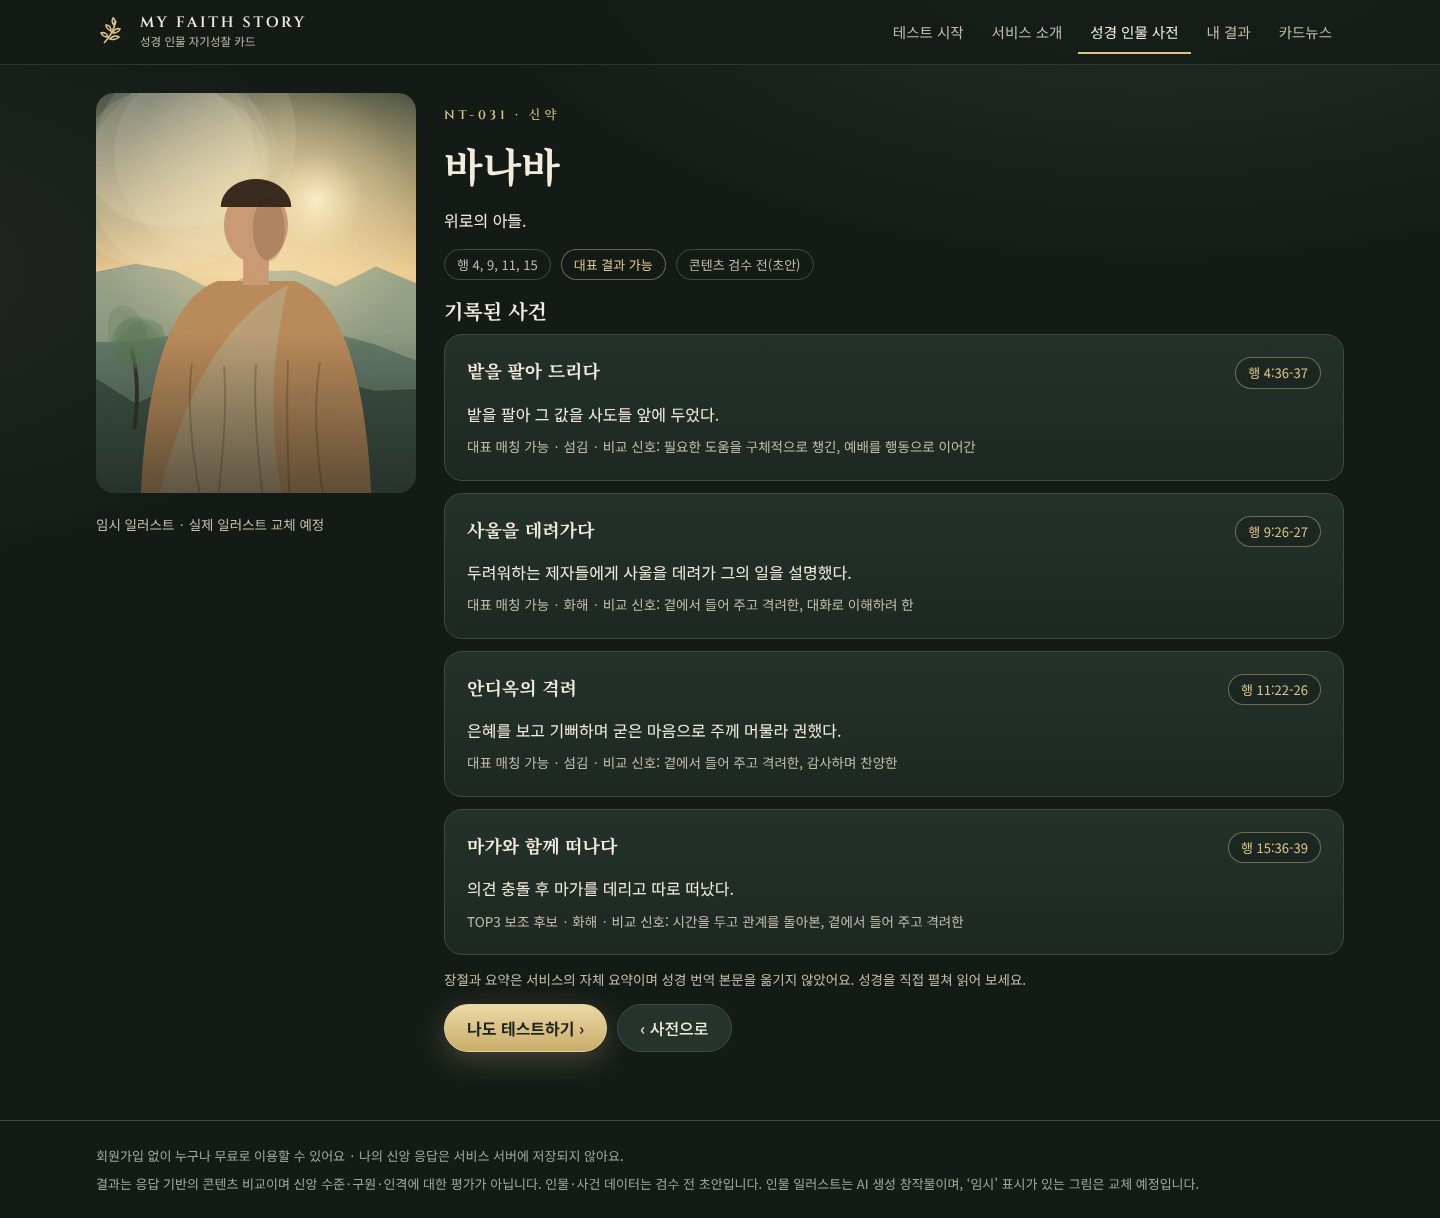
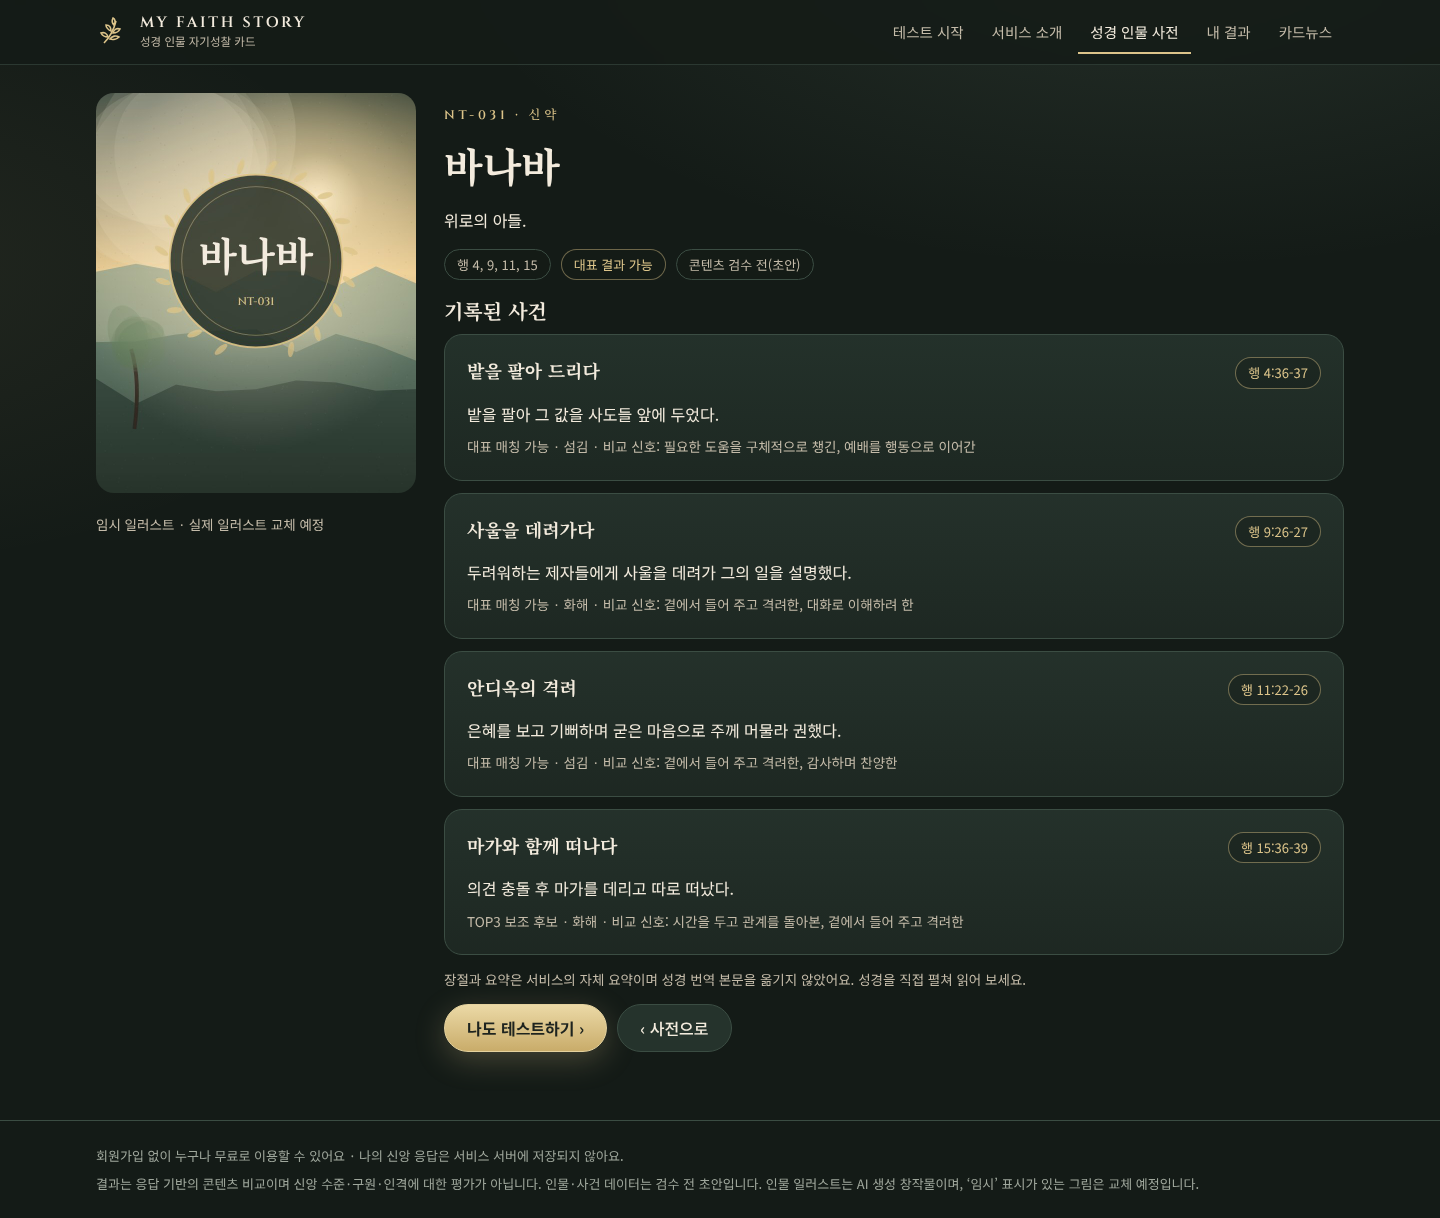
Placeholder portraits: landscape + name medallion instead of faceless figure
Claude-Session: https://claude.ai/code/session_014c9vFgBS4BdK9e3m5zEueQ

Changed region(s): [[0.0938, 0.1248, 0.2812, 0.4056]]

diff --git a/dist/index.html b/dist/index.html
@@ -1229,6 +1229,37 @@ window.MFS_PORTRAITS=["nt-peter","ot-abraham","ot-asaph","ot-daniel","ot-david",
     ctx.fillStyle = 'rgba(60,35,20,.18)'; ctx.beginPath(); ctx.ellipse(cx + w * 0.04, top + h * 0.14, w * 0.05, h * 0.08, 0, 0, Math.PI * 2); ctx.fill();
     paper(ctx, w, h, r);
   }
+  // Placeholder art until a generated portrait exists: watercolor landscape + name medallion
+  // (no faceless figure — it read as unfinished).
+  function emblem(ctx, w, h, charId) {
+    const ch = D.CHAR_BY_ID[charId]; if (!ch) return;
+    const cx = w / 2, cy = h * 0.42, R = Math.min(w, h) * 0.27;
+    const g = ctx.createRadialGradient(cx, cy, 0, cx, cy, R * 2.2);
+    g.addColorStop(0, 'rgba(255,240,205,.55)'); g.addColorStop(1, 'rgba(255,240,205,0)');
+    ctx.fillStyle = g; ctx.fillRect(0, 0, w, h);
+    ctx.fillStyle = 'rgba(20,32,26,.78)'; ctx.beginPath(); ctx.arc(cx, cy, R, 0, Math.PI * 2); ctx.fill();
+    ctx.strokeStyle = 'rgba(220,196,138,.95)'; ctx.lineWidth = Math.max(2, w * 0.006); ctx.stroke();
+    ctx.strokeStyle = 'rgba(220,196,138,.45)'; ctx.lineWidth = Math.max(1, w * 0.003); ctx.beginPath(); ctx.arc(cx, cy, R * 0.86, 0, Math.PI * 2); ctx.stroke();
+    // laurel ticks around the ring
+    ctx.fillStyle = 'rgba(220,196,138,.8)';
+    for (let i = 0; i < 18; i++) { const a = Math.PI * 0.62 + i * (Math.PI * 1.76 / 17); const x = cx + Math.cos(a) * R * 1.1, y = cy + Math.sin(a) * R * 1.1; ctx.save(); ctx.translate(x, y); ctx.rotate(a + Math.PI / 2); ctx.beginPath(); ctx.ellipse(0, 0, R * 0.035, R * 0.09, 0.5, 0, Math.PI * 2); ctx.fill(); ctx.restore(); }
+    ctx.fillStyle = '#F3EBDD'; ctx.textAlign = 'center'; ctx.textBaseline = 'middle';
+    const name = ch.displayName.replace(/\s+/g, '');
+    if (name.length <= 4) {
+      const size = R * [0, 0.95, 0.62, 0.46, 0.36][name.length];
+      ctx.font = `700 ${Math.round(size)}px ${FONT.serif}`; ctx.fillText(name, cx, cy - R * 0.06);
+    } else { // long names: open-book mark instead of a truncated name
+      const bw = R * 0.5, by = cy - R * 0.08;
+      ctx.strokeStyle = '#F3EBDD'; ctx.lineWidth = Math.max(2, R * 0.035); ctx.lineJoin = 'round'; ctx.beginPath();
+      ctx.moveTo(cx - bw, by - bw * 0.25); ctx.quadraticCurveTo(cx - bw * 0.5, by - bw * 0.5, cx, by - bw * 0.15); ctx.quadraticCurveTo(cx + bw * 0.5, by - bw * 0.5, cx + bw, by - bw * 0.25);
+      ctx.lineTo(cx + bw, by + bw * 0.5); ctx.quadraticCurveTo(cx + bw * 0.5, by + bw * 0.25, cx, by + bw * 0.6); ctx.quadraticCurveTo(cx - bw * 0.5, by + bw * 0.25, cx - bw, by + bw * 0.5); ctx.closePath();
+      ctx.moveTo(cx, by - bw * 0.15); ctx.lineTo(cx, by + bw * 0.6); ctx.stroke();
+    }
+    ctx.fillStyle = 'rgba(220,196,138,.95)'; ctx.font = `600 ${Math.round(R * 0.13)}px ${FONT.display}`;
+    ctx.fillText(ch.cardCode, cx, cy + R * 0.48);
+    ctx.textBaseline = 'alphabetic';
+  }
+
   // Real generated portraits (served as files next to the page); others fall back to the procedural placeholder.
   const REAL = new Set(root.MFS_PORTRAITS || []);
   const PORTRAIT_BASE = 'assets/characters/';
@@ -1254,7 +1285,7 @@ window.MFS_PORTRAITS=["nt-peter","ot-abraham","ot-asaph","ot-daniel","ot-david",
       const im = rec.im, sc = Math.max(w / im.naturalWidth, h / im.naturalHeight);
       const dw = im.naturalWidth * sc, dh = im.naturalHeight * sc;
       ctx.drawImage(im, (w - dw) / 2, (h - dh) * 0.4, dw, dh);
-    } else { scene(ctx, w, h, charId); figure(ctx, w, h, charId); }
+    } else { scene(ctx, w, h, charId); emblem(ctx, w, h, charId); }
     const v = ctx.createLinearGradient(0, h * 0.6, 0, h); v.addColorStop(0, 'rgba(20,27,23,0)'); v.addColorStop(1, 'rgba(20,27,23,.55)');
     ctx.fillStyle = v; ctx.fillRect(0, 0, w, h);
     portraitCache.set(key, cv);
@@ -1329,8 +1360,8 @@ window.MFS_PORTRAITS=["nt-peter","ot-abraham","ot-asaph","ot-daniel","ot-david",
     if (card.rarity === 'SR' || card.rarity === 'SSR') sparkles(ctx, px, py, pw, ph * 0.6, ch.id, card.rarity === 'SSR' ? 22 : 12);
     ctx.restore();
     ctx.strokeStyle = frameGrad(ctx, px, py, pw, ph, card.rarity); ctx.lineWidth = 6; rr(ctx, px, py, pw, ph, 24); ctx.stroke();
-    if (!REAL.has(ch.id)) { ctx.fillStyle = 'rgba(14,20,17,.6)'; rr(ctx, px + 16, py + 16, 150, 40, 20); ctx.fill();
-      ctx.fillStyle = C.muted; ctx.font = `500 20px ${FONT.sans}`; ctx.textAlign = 'center'; ctx.fillText('임시 일러스트', px + 91, py + 43); }
+    if (!REAL.has(ch.id)) { ctx.fillStyle = 'rgba(14,20,17,.6)'; rr(ctx, px + 16, py + 16, 172, 40, 20); ctx.fill();
+      ctx.fillStyle = C.muted; ctx.font = `500 20px ${FONT.sans}`; ctx.textAlign = 'center'; ctx.fillText('일러스트 준비 중', px + 102, py + 43); }
     // name plate
     let y = py + ph - 40;
     rr(ctx, px + 60, y, pw - 120, 112, 56); ctx.fillStyle = f.plate; ctx.fill();

diff --git a/dist/standalone.html b/dist/standalone.html
@@ -1231,6 +1231,37 @@ window.MFS_PORTRAITS=["nt-peter","ot-abraham","ot-asaph","ot-daniel","ot-david",
     ctx.fillStyle = 'rgba(60,35,20,.18)'; ctx.beginPath(); ctx.ellipse(cx + w * 0.04, top + h * 0.14, w * 0.05, h * 0.08, 0, 0, Math.PI * 2); ctx.fill();
     paper(ctx, w, h, r);
   }
+  // Placeholder art until a generated portrait exists: watercolor landscape + name medallion
+  // (no faceless figure — it read as unfinished).
+  function emblem(ctx, w, h, charId) {
+    const ch = D.CHAR_BY_ID[charId]; if (!ch) return;
+    const cx = w / 2, cy = h * 0.42, R = Math.min(w, h) * 0.27;
+    const g = ctx.createRadialGradient(cx, cy, 0, cx, cy, R * 2.2);
+    g.addColorStop(0, 'rgba(255,240,205,.55)'); g.addColorStop(1, 'rgba(255,240,205,0)');
+    ctx.fillStyle = g; ctx.fillRect(0, 0, w, h);
+    ctx.fillStyle = 'rgba(20,32,26,.78)'; ctx.beginPath(); ctx.arc(cx, cy, R, 0, Math.PI * 2); ctx.fill();
+    ctx.strokeStyle = 'rgba(220,196,138,.95)'; ctx.lineWidth = Math.max(2, w * 0.006); ctx.stroke();
+    ctx.strokeStyle = 'rgba(220,196,138,.45)'; ctx.lineWidth = Math.max(1, w * 0.003); ctx.beginPath(); ctx.arc(cx, cy, R * 0.86, 0, Math.PI * 2); ctx.stroke();
+    // laurel ticks around the ring
+    ctx.fillStyle = 'rgba(220,196,138,.8)';
+    for (let i = 0; i < 18; i++) { const a = Math.PI * 0.62 + i * (Math.PI * 1.76 / 17); const x = cx + Math.cos(a) * R * 1.1, y = cy + Math.sin(a) * R * 1.1; ctx.save(); ctx.translate(x, y); ctx.rotate(a + Math.PI / 2); ctx.beginPath(); ctx.ellipse(0, 0, R * 0.035, R * 0.09, 0.5, 0, Math.PI * 2); ctx.fill(); ctx.restore(); }
+    ctx.fillStyle = '#F3EBDD'; ctx.textAlign = 'center'; ctx.textBaseline = 'middle';
+    const name = ch.displayName.replace(/\s+/g, '');
+    if (name.length <= 4) {
+      const size = R * [0, 0.95, 0.62, 0.46, 0.36][name.length];
+      ctx.font = `700 ${Math.round(size)}px ${FONT.serif}`; ctx.fillText(name, cx, cy - R * 0.06);
+    } else { // long names: open-book mark instead of a truncated name
+      const bw = R * 0.5, by = cy - R * 0.08;
+      ctx.strokeStyle = '#F3EBDD'; ctx.lineWidth = Math.max(2, R * 0.035); ctx.lineJoin = 'round'; ctx.beginPath();
+      ctx.moveTo(cx - bw, by - bw * 0.25); ctx.quadraticCurveTo(cx - bw * 0.5, by - bw * 0.5, cx, by - bw * 0.15); ctx.quadraticCurveTo(cx + bw * 0.5, by - bw * 0.5, cx + bw, by - bw * 0.25);
+      ctx.lineTo(cx + bw, by + bw * 0.5); ctx.quadraticCurveTo(cx + bw * 0.5, by + bw * 0.25, cx, by + bw * 0.6); ctx.quadraticCurveTo(cx - bw * 0.5, by + bw * 0.25, cx - bw, by + bw * 0.5); ctx.closePath();
+      ctx.moveTo(cx, by - bw * 0.15); ctx.lineTo(cx, by + bw * 0.6); ctx.stroke();
+    }
+    ctx.fillStyle = 'rgba(220,196,138,.95)'; ctx.font = `600 ${Math.round(R * 0.13)}px ${FONT.display}`;
+    ctx.fillText(ch.cardCode, cx, cy + R * 0.48);
+    ctx.textBaseline = 'alphabetic';
+  }
+
   // Real generated portraits (served as files next to the page); others fall back to the procedural placeholder.
   const REAL = new Set(root.MFS_PORTRAITS || []);
   const PORTRAIT_BASE = 'assets/characters/';
@@ -1256,7 +1287,7 @@ window.MFS_PORTRAITS=["nt-peter","ot-abraham","ot-asaph","ot-daniel","ot-david",
       const im = rec.im, sc = Math.max(w / im.naturalWidth, h / im.naturalHeight);
       const dw = im.naturalWidth * sc, dh = im.naturalHeight * sc;
       ctx.drawImage(im, (w - dw) / 2, (h - dh) * 0.4, dw, dh);
-    } else { scene(ctx, w, h, charId); figure(ctx, w, h, charId); }
+    } else { scene(ctx, w, h, charId); emblem(ctx, w, h, charId); }
     const v = ctx.createLinearGradient(0, h * 0.6, 0, h); v.addColorStop(0, 'rgba(20,27,23,0)'); v.addColorStop(1, 'rgba(20,27,23,.55)');
     ctx.fillStyle = v; ctx.fillRect(0, 0, w, h);
     portraitCache.set(key, cv);
@@ -1331,8 +1362,8 @@ window.MFS_PORTRAITS=["nt-peter","ot-abraham","ot-asaph","ot-daniel","ot-david",
     if (card.rarity === 'SR' || card.rarity === 'SSR') sparkles(ctx, px, py, pw, ph * 0.6, ch.id, card.rarity === 'SSR' ? 22 : 12);
     ctx.restore();
     ctx.strokeStyle = frameGrad(ctx, px, py, pw, ph, card.rarity); ctx.lineWidth = 6; rr(ctx, px, py, pw, ph, 24); ctx.stroke();
-    if (!REAL.has(ch.id)) { ctx.fillStyle = 'rgba(14,20,17,.6)'; rr(ctx, px + 16, py + 16, 150, 40, 20); ctx.fill();
-      ctx.fillStyle = C.muted; ctx.font = `500 20px ${FONT.sans}`; ctx.textAlign = 'center'; ctx.fillText('임시 일러스트', px + 91, py + 43); }
+    if (!REAL.has(ch.id)) { ctx.fillStyle = 'rgba(14,20,17,.6)'; rr(ctx, px + 16, py + 16, 172, 40, 20); ctx.fill();
+      ctx.fillStyle = C.muted; ctx.font = `500 20px ${FONT.sans}`; ctx.textAlign = 'center'; ctx.fillText('일러스트 준비 중', px + 102, py + 43); }
     // name plate
     let y = py + ph - 40;
     rr(ctx, px + 60, y, pw - 120, 112, 56); ctx.fillStyle = f.plate; ctx.fill();

diff --git a/src/render.js b/src/render.js
@@ -126,6 +126,37 @@
     ctx.fillStyle = 'rgba(60,35,20,.18)'; ctx.beginPath(); ctx.ellipse(cx + w * 0.04, top + h * 0.14, w * 0.05, h * 0.08, 0, 0, Math.PI * 2); ctx.fill();
     paper(ctx, w, h, r);
   }
+  // Placeholder art until a generated portrait exists: watercolor landscape + name medallion
+  // (no faceless figure — it read as unfinished).
+  function emblem(ctx, w, h, charId) {
+    const ch = D.CHAR_BY_ID[charId]; if (!ch) return;
+    const cx = w / 2, cy = h * 0.42, R = Math.min(w, h) * 0.27;
+    const g = ctx.createRadialGradient(cx, cy, 0, cx, cy, R * 2.2);
+    g.addColorStop(0, 'rgba(255,240,205,.55)'); g.addColorStop(1, 'rgba(255,240,205,0)');
+    ctx.fillStyle = g; ctx.fillRect(0, 0, w, h);
+    ctx.fillStyle = 'rgba(20,32,26,.78)'; ctx.beginPath(); ctx.arc(cx, cy, R, 0, Math.PI * 2); ctx.fill();
+    ctx.strokeStyle = 'rgba(220,196,138,.95)'; ctx.lineWidth = Math.max(2, w * 0.006); ctx.stroke();
+    ctx.strokeStyle = 'rgba(220,196,138,.45)'; ctx.lineWidth = Math.max(1, w * 0.003); ctx.beginPath(); ctx.arc(cx, cy, R * 0.86, 0, Math.PI * 2); ctx.stroke();
+    // laurel ticks around the ring
+    ctx.fillStyle = 'rgba(220,196,138,.8)';
+    for (let i = 0; i < 18; i++) { const a = Math.PI * 0.62 + i * (Math.PI * 1.76 / 17); const x = cx + Math.cos(a) * R * 1.1, y = cy + Math.sin(a) * R * 1.1; ctx.save(); ctx.translate(x, y); ctx.rotate(a + Math.PI / 2); ctx.beginPath(); ctx.ellipse(0, 0, R * 0.035, R * 0.09, 0.5, 0, Math.PI * 2); ctx.fill(); ctx.restore(); }
+    ctx.fillStyle = '#F3EBDD'; ctx.textAlign = 'center'; ctx.textBaseline = 'middle';
+    const name = ch.displayName.replace(/\s+/g, '');
+    if (name.length <= 4) {
+      const size = R * [0, 0.95, 0.62, 0.46, 0.36][name.length];
+      ctx.font = `700 ${Math.round(size)}px ${FONT.serif}`; ctx.fillText(name, cx, cy - R * 0.06);
+    } else { // long names: open-book mark instead of a truncated name
+      const bw = R * 0.5, by = cy - R * 0.08;
+      ctx.strokeStyle = '#F3EBDD'; ctx.lineWidth = Math.max(2, R * 0.035); ctx.lineJoin = 'round'; ctx.beginPath();
+      ctx.moveTo(cx - bw, by - bw * 0.25); ctx.quadraticCurveTo(cx - bw * 0.5, by - bw * 0.5, cx, by - bw * 0.15); ctx.quadraticCurveTo(cx + bw * 0.5, by - bw * 0.5, cx + bw, by - bw * 0.25);
+      ctx.lineTo(cx + bw, by + bw * 0.5); ctx.quadraticCurveTo(cx + bw * 0.5, by + bw * 0.25, cx, by + bw * 0.6); ctx.quadraticCurveTo(cx - bw * 0.5, by + bw * 0.25, cx - bw, by + bw * 0.5); ctx.closePath();
+      ctx.moveTo(cx, by - bw * 0.15); ctx.lineTo(cx, by + bw * 0.6); ctx.stroke();
+    }
+    ctx.fillStyle = 'rgba(220,196,138,.95)'; ctx.font = `600 ${Math.round(R * 0.13)}px ${FONT.display}`;
+    ctx.fillText(ch.cardCode, cx, cy + R * 0.48);
+    ctx.textBaseline = 'alphabetic';
+  }
+
   // Real generated portraits (served as files next to the page); others fall back to the procedural placeholder.
   const REAL = new Set(root.MFS_PORTRAITS || []);
   const PORTRAIT_BASE = 'assets/characters/';
@@ -151,7 +182,7 @@
       const im = rec.im, sc = Math.max(w / im.naturalWidth, h / im.naturalHeight);
       const dw = im.naturalWidth * sc, dh = im.naturalHeight * sc;
       ctx.drawImage(im, (w - dw) / 2, (h - dh) * 0.4, dw, dh);
-    } else { scene(ctx, w, h, charId); figure(ctx, w, h, charId); }
+    } else { scene(ctx, w, h, charId); emblem(ctx, w, h, charId); }
     const v = ctx.createLinearGradient(0, h * 0.6, 0, h); v.addColorStop(0, 'rgba(20,27,23,0)'); v.addColorStop(1, 'rgba(20,27,23,.55)');
     ctx.fillStyle = v; ctx.fillRect(0, 0, w, h);
     portraitCache.set(key, cv);
@@ -226,8 +257,8 @@
     if (card.rarity === 'SR' || card.rarity === 'SSR') sparkles(ctx, px, py, pw, ph * 0.6, ch.id, card.rarity === 'SSR' ? 22 : 12);
     ctx.restore();
     ctx.strokeStyle = frameGrad(ctx, px, py, pw, ph, card.rarity); ctx.lineWidth = 6; rr(ctx, px, py, pw, ph, 24); ctx.stroke();
-    if (!REAL.has(ch.id)) { ctx.fillStyle = 'rgba(14,20,17,.6)'; rr(ctx, px + 16, py + 16, 150, 40, 20); ctx.fill();
-      ctx.fillStyle = C.muted; ctx.font = `500 20px ${FONT.sans}`; ctx.textAlign = 'center'; ctx.fillText('임시 일러스트', px + 91, py + 43); }
+    if (!REAL.has(ch.id)) { ctx.fillStyle = 'rgba(14,20,17,.6)'; rr(ctx, px + 16, py + 16, 172, 40, 20); ctx.fill();
+      ctx.fillStyle = C.muted; ctx.font = `500 20px ${FONT.sans}`; ctx.textAlign = 'center'; ctx.fillText('일러스트 준비 중', px + 102, py + 43); }
     // name plate
     let y = py + ph - 40;
     rr(ctx, px + 60, y, pw - 120, 112, 56); ctx.fillStyle = f.plate; ctx.fill();

diff --git a/CLAUDE.md b/CLAUDE.md
@@ -8,6 +8,6 @@
 - Matching engine is a pure, deterministic function (src/engine.js). No per-option character mapping, no randomness, no LLM.
 - Rarity N/R/SR/SSR = design rarity of signatureKey (skill | secondary family | event context) over the 4,096 equal-weight combos. Not faith level, not probability. Never hand out rarity by "good" answers. Regenerate with `npm run generate:rarity` after any data change.
 - Never hardcode mock scores (베드로 88 / 다윗 81 / 모세 74).
-- Do not claim generated illustrations, human content review, deployment or tests that did not happen. Portraits: 25 generated (public/assets/characters/*.webp, list baked by build), the rest are procedural placeholders marked 임시. Add new portraits via scripts/fetch-portraits.sh + WebP conversion, then `npm run build`.
+- Do not claim generated illustrations, human content review, deployment or tests that did not happen. Portraits: 25 generated (public/assets/characters/*.webp, list baked by build), the rest show a placeholder (watercolor landscape + name medallion, labelled 일러스트 준비 중). Add new portraits via scripts/fetch-portraits.sh + WebP conversion, then `npm run build`.
 - Quiz: tapping an option auto-advances (user request, overrides spec §3).
 - Workflow: `npm run generate:rarity && npm run validate:data && npm test && npm run test:exhaustive && npm run build && npm run test:e2e` (= `npm run qa`).
